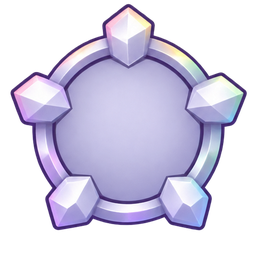
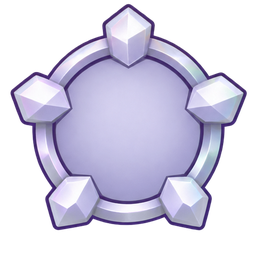
feat: light Hotaru's counter rainbow with a shader
The rainbow rim on Hotaru's energy counter was painted into the texture.
It is now light drawn over a plain pearl base, the way the vanilla
counters build their glow from separate layers and effects.

- The counter texture is the chosen icon with the rainbow pulled back to
  Hotaru's lavender; a separate mask marks where the rainbow was.
- hotaru_energy_glow.gdshader adds the Iridescence relic's colours over
  that mask, turning around the centre and breathing slightly.
- The Glow layer sits outside %Layers, because NEnergyCounter resets the
  materials of everything under %Layers, and it goes out at zero energy.
- Card and card-text icons stay static, as vanilla card costs are.

Godot compiles the shader and imports the new PNG when the mod is
packaged.

diff --git a/Core/Nodes/Combat/NHBRGOSakiEnergyCounter.cs b/Core/Nodes/Combat/NHBRGOSakiEnergyCounter.cs
@@ -19,17 +19,21 @@ public partial class NHBRGOSakiEnergyCounter : NEnergyCounter
         "res://images/ui/energys/hbrgosaki30a_energy_counter.png";
     private const string HotaruIconPath =
         "res://images/ui/energys/hbrgohotaru_energy_counter.png";
+    private const string HotaruGlowPath =
+        "res://images/ui/energys/hbrgohotaru_energy_counter_glow.png";
 
     private static readonly AccessTools.FieldRef<NEnergyCounter, Player> PlayerField =
         AccessTools.FieldRefAccess<NEnergyCounter, Player>("_player");
 
     private TextureRect _icon;
+    private TextureRect _glow;
     private string _iconPath;
 
     public override void _Ready()
     {
         base._Ready();
         _icon = GetNode<TextureRect>("%Layers/Layer1");
+        _glow = GetNode<TextureRect>("%Glow");
         RefreshIcon();
     }
 
@@ -41,7 +45,9 @@ public partial class NHBRGOSakiEnergyCounter : NEnergyCounter
 
     private void RefreshIcon()
     {
-        string path = GetIconPath(PlayerField(this));
+        Player player = PlayerField(this);
+        RefreshGlow(player);
+        string path = GetIconPath(player);
         if (_icon == null || path == _iconPath)
         {
             return;
@@ -49,6 +55,21 @@ public partial class NHBRGOSakiEnergyCounter : NEnergyCounter
 
         _iconPath = path;
         _icon.Texture = ResourceLoader.Load<Texture2D>(path);
+    }
+
+    // Hotaru's rainbow rim is a self-lit shader layer outside %Layers, because the
+    // base counter resets the materials of everything under %Layers. It goes out at
+    // zero energy, when the base counter darkens the orb.
+    private void RefreshGlow(Player player)
+    {
+        bool lit = player?.Character is HbrgoHotaru && player.PlayerCombatState?.Energy > 0;
+        if (_glow == null || _glow.Visible == lit)
+        {
+            return;
+        }
+
+        _glow.Texture ??= ResourceLoader.Load<Texture2D>(HotaruGlowPath);
+        _glow.Visible = lit;
     }
 
     // Hotaru shares this scene. 31O follows her combat portrait; the scythe borrows 30A's crescent.
